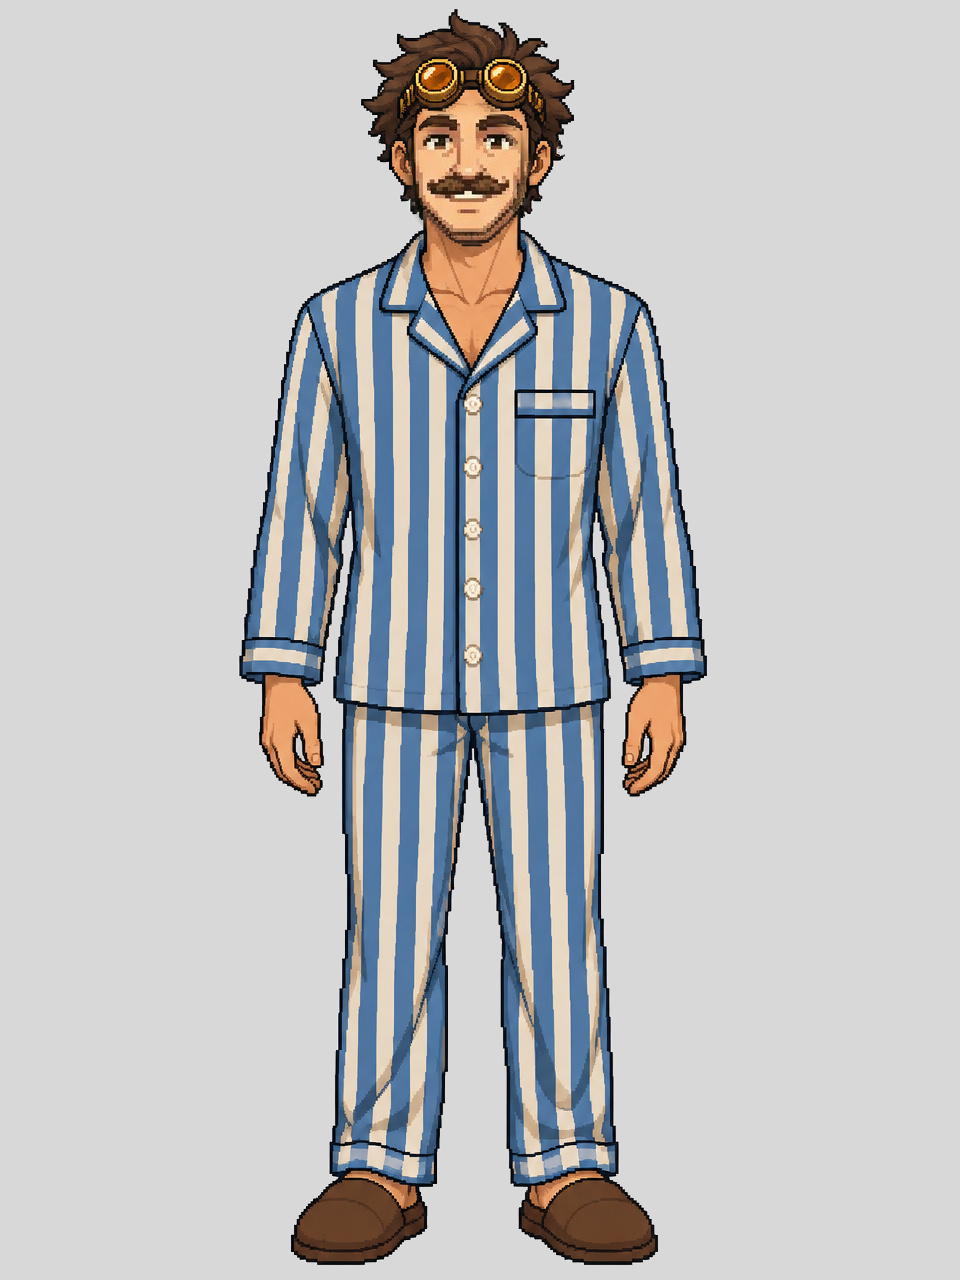
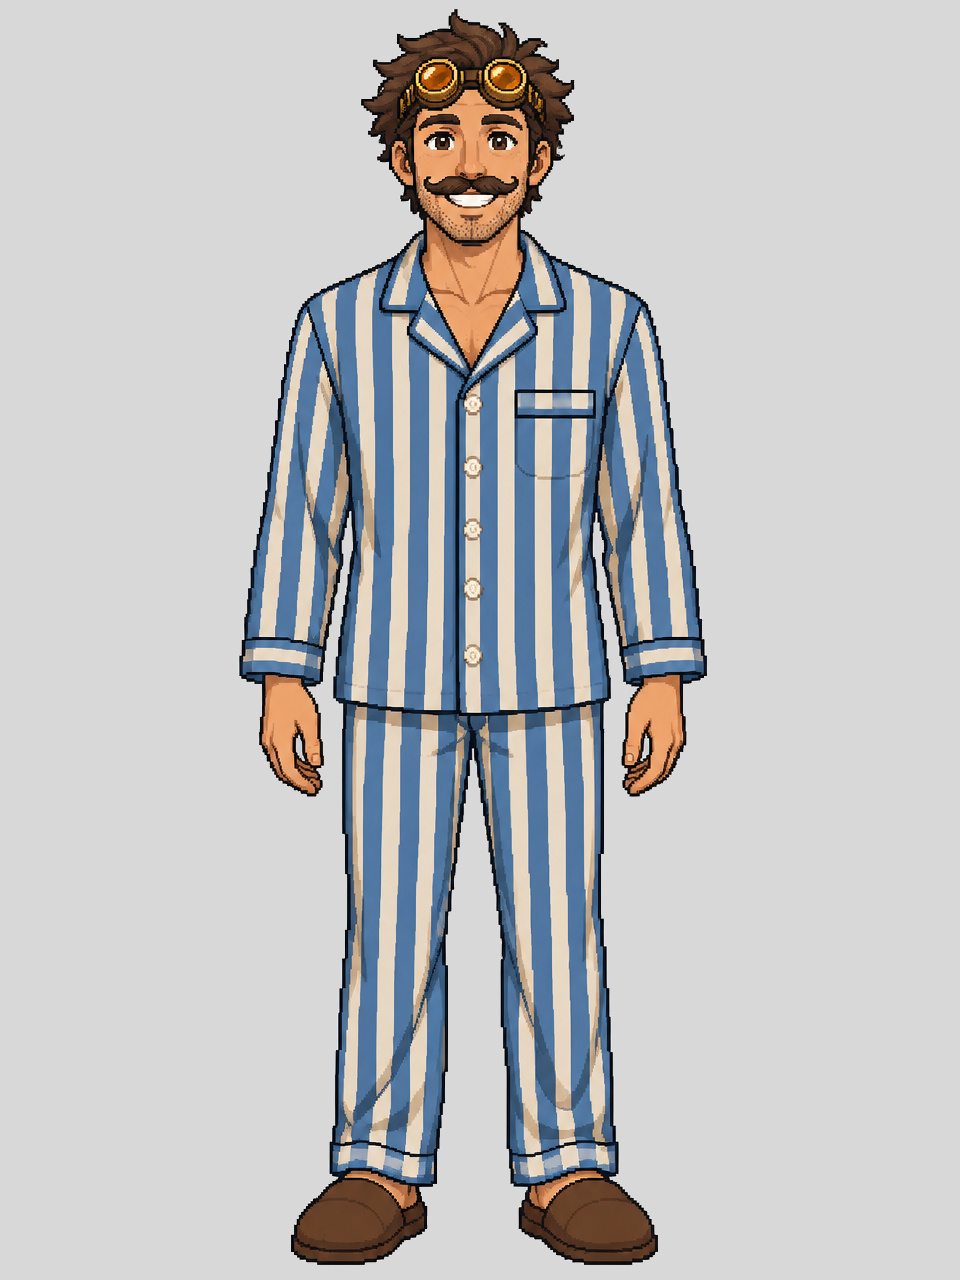
Revert the face transplant on sleep and swim sprites: back to the whole generated characters from d3aee95

Changed region(s): [[0.4062, 0.0625, 0.5625, 0.1875]]

diff --git a/assets/npcs/faces/outfits.py b/assets/npcs/faces/outfits.py
@@ -5,13 +5,7 @@ with a detailed description of the character's face, hair, skin, eyes and build 
 the same front-view standing pose on plain light grey; Veyra's swim sprite is the owner's approved concept. Faces drift a little from the day
 sprites (accepted by the owner); the day sprites and the faces strips are not touched.
 
-Then the FACE (eyes, brows, nose, mouth, cheeks; Gruk's tusks; Veyra's glasses and fringe) of the day sprite is transplanted onto each
-generated face: a soft ellipse around the day face, scaled, rotated and moved so the day sprite's eye centres land on the generated sprite's
-eye centres (both hand-set below, EYES), the day face's skin tone shifted to the generated skin round the edge, and the edge feathered.
-Hair, hats, ears and the head outline stay the generated sprite's, so the head stays joined to the body. Veyra's generated sleep sprite has
-her fringe on the other side, so it is mirrored first (FLIP).
-
-The script also flattens each image onto the plain grey of the other sprites (any transparency onto grey 216; a near-grey background is
+This script only flattens each image onto the plain grey of the other sprites (any transparency onto grey 216; a near-grey background is
 evened out to exactly that grey by a flood fill from the border, like src/render/npcs/art.ts cutOut) and saves assets/npcs/<id>_<outfit>.jpg.
 
   python assets/npcs/faces/outfits.py [id ...]
@@ -56,140 +50,13 @@ def flatten(path):
     return a.astype(np.uint8)
 
 
-# Eye centres (x, y): left eye then right eye as seen in the picture. Day sprites in assets/npcs/<id>.jpg pixels, outfits in the 960x1280
-# generated pixels (after FLIP). Veyra's left eye is under her fringe: the centre of that glasses lens.
-EYES = {
-    'mara': {'day': ((418, 223), (477, 223)), 'sleep': ((437, 235), (507, 235)), 'swim': ((437, 240), (507, 240))},
-    'rosa': {'day': ((412, 232), (475, 232)), 'sleep': ((432, 187), (505, 187)), 'swim': ((427, 187), (500, 187))},
-    'gruk': {'day': ((433, 168), (483, 168)), 'sleep': ((450, 147), (505, 147)), 'swim': ((450, 152), (505, 152))},
-    'orrin': {'day': ((417, 195), (477, 195)), 'sleep': ((437, 142), (497, 142)), 'swim': ((397, 217), (462, 217))},
-    'bram': {'day': ((413, 202), (473, 202)), 'sleep': ((415, 212), (510, 212)), 'swim': ((445, 202), (515, 202))},
-    'veyra': {'day': ((448, 130), (507, 128)), 'sleep': ((447, 112), (507, 112)), 'swim': ((440, 145), (500, 142))},
-}
-FLIP = {('veyra', 'sleep')}
-# The face ellipse on the day sprite, in eye distances d from the eyes' midpoint: centre drop, half width, half height, feather.
-FACE = {
-    'mara': (0.3, 0.95, 0.75, 0.16), 'rosa': (0.3, 0.85, 0.78, 0.16), 'gruk': (0.55, 1.05, 1.25, 0.16),
-    'orrin': (0.5, 0.95, 1.1, 0.16), 'bram': (0.45, 1.0, 1.0, 0.16), 'veyra': (0.3, 1.05, 0.72, 0.14),
-}
-
-
-# Regions of a generated sprite to paint over from their surroundings before the face goes on (x0, y0, x1, y1): the sunglasses resting on
-# Veyra's head in the swim concept (she keeps the reading glasses of her day face).
-CLEAN = {}  # e.g. {('veyra', 'swim'): (400, 40, 545, 108)} would paint the sunglasses off her head (not used: she wears them there)
-# Faces transplanted without the day sprite's glasses (the gold rims are painted out of the day face first): Veyra's swim sprite wears her
-# glasses pushed up on her head instead, as in the concept.
-NO_GLASSES = {('veyra', 'swim')}
-
-
-def clean(cid, outfit, img):
-    """Removes a prop lying on the hair: inside the box, every pixel of the head that is not hair is repainted with the hair texture from
-    further down the same columns (so the strands and shading carry on), then the head's dark outline is drawn back along the silhouette."""
-    import cv2
-
-    box = CLEAN.get((cid, outfit))
-    if not box:
-        return img
-    x0, y0, x1, y1 = box
-    out = img.copy()
-    a = img.astype(int)
-    hair = (a.max(axis=2) < 110) & (a[..., 2] >= a[..., 0])
-    bg = np.abs(a - np.array(GREY)).sum(axis=2) < 30
-    fg = ~bg
-    # the prop is a pair of round glasses: find the gold rims, fit a disc to each lens, and take the discs and the bridge
-    gold = (a[..., 0] > 160) & (a[..., 1] > 110) & (a[..., 2] < 110) & (a[..., 0] - a[..., 2] > 80)
-    gy, gx = np.where(gold[y0:y1, x0:x1])
-    gy, gx = gy + y0, gx + x0
-    mid = (gx.min() + gx.max()) / 2
-    prop = np.zeros(hair.shape, np.uint8)
-    centres = []
-    for side in (gx < mid, gx >= mid):
-        cx, cy = gx[side].mean(), gy[side].mean()
-        r = np.hypot(gx[side] - cx, gy[side] - cy).max()
-        cv2.circle(prop, (int(round(cx)), int(round(cy))), int(r) + 6, 1, -1)
-        centres.append((int(round(cx)), int(round(cy))))
-    cv2.line(prop, centres[0], centres[1], 1, 8)
-    shiny = np.zeros(hair.shape, np.uint8)  # any gold rim or white glint left in the box goes too
-    shiny[y0:y1, x0:x1] = (gold | (a.min(axis=2) > 150))[y0:y1, x0:x1]
-    prop = (prop.astype(bool) | cv2.dilate(shiny, np.ones((7, 7), np.uint8)).astype(bool)) & fg
-    dy = y1 - y0
-    ys, xs = np.where(prop)
-    w = img.shape[1]
-    # where to borrow hair from: straight below (a box height or two down), else sideways along the same row, clear of the glasses
-    offsets = [(dy, 0), (2 * dy, 0), (0, -60), (0, 60), (0, -90), (0, 90)] + [(oy, ox) for oy in (10, 20, 30, 45) for ox in (-35, 35, -50, 50, -70, 70)]
-    left = np.zeros(hair.shape, np.uint8)
-    for y, x in zip(ys, xs):
-        for oy, ox in offsets:
-            sy, sx = y + oy, x + ox
-            if 0 <= sy < img.shape[0] and 0 <= sx < w and hair[sy, sx] and not prop[sy, sx]:
-                out[y, x] = img[sy, sx]
-                break
-        else:
-            left[y, x] = 1
-    if left.any():  # whatever found no hair to borrow is filled in from its neighbours
-        out = cv2.inpaint(out, left, 3, cv2.INPAINT_TELEA)
-    # the outline: head pixels next to the background become the darkest hair colour
-    dark = np.percentile(a[hair][:, :3], 3, axis=0).astype(np.uint8)
-    outside = (a == np.array(GREY)).all(axis=2)  # the background the flatten step set (connected to the border)
-    edge = ~outside & cv2.dilate(outside.astype(np.uint8), np.ones((3, 3), np.uint8)).astype(bool)
-    sel = np.zeros(hair.shape, bool)
-    sel[y0:y1, x0:x1] = edge[y0:y1, x0:x1]
-    out[sel] = dark
-    return out
-
-
-def transplant(cid, outfit, gen):
-    """The day sprite's face, eye-aligned, tone-matched and feathered, over the generated face."""
-    import cv2
-
-    day = np.array(Image.open(os.path.join(ROOT, f'{cid}.jpg')).convert('RGB')).astype(np.float32)
-    (dl, dr), (gl, gr) = EYES[cid]['day'], EYES[cid][outfit]
-    if (cid, outfit) in NO_GLASSES:
-        rim = ((day[..., 0] - day[..., 2] > 25) & (day[..., 1] > day[..., 2] + 5) & (day[..., 0] > 100)).astype(np.uint8)
-        rim[:, :400] = 0
-        rim[:, 570:] = 0
-        rim[:90] = 0
-        rim[175:] = 0
-        rim = cv2.dilate(rim, np.ones((7, 7), np.uint8))
-        day = cv2.inpaint(day.astype(np.uint8), rim, 4, cv2.INPAINT_TELEA).astype(np.float32)
-    dl, dr, gl, gr = (np.array(p, np.float32) for p in (dl, dr, gl, gr))
-    d_day = np.linalg.norm(dr - dl)
-    k = np.linalg.norm(gr - gl) / d_day
-    ang = np.arctan2(*(gr - gl)[::-1]) - np.arctan2(*(dr - dl)[::-1])
-    c, s_ = np.cos(ang) * k, np.sin(ang) * k
-    mid_d, mid_g = (dl + dr) / 2, (gl + gr) / 2
-    M = np.array([[c, -s_, 0], [s_, c, 0]], np.float32)
-    M[:, 2] = mid_g - M[:, :2] @ mid_d
-    h, w, _ = gen.shape
-    warped = cv2.warpAffine(day, M, (w, h), flags=cv2.INTER_LINEAR, borderMode=cv2.BORDER_REPLICATE)
-    drop, ax, ay, fe = FACE[cid]
-    mask = np.zeros(day.shape[:2], np.float32)
-    cv2.ellipse(mask, (int(mid_d[0]), int(mid_d[1] + drop * d_day)), (int(ax * d_day), int(ay * d_day)), 0, 0, 360, 1.0, -1)
-    mask = cv2.warpAffine(mask, M, (w, h), flags=cv2.INTER_LINEAR)
-    sig = fe * d_day * k
-    soft = cv2.GaussianBlur(mask, (0, 0), sig)
-    soft = np.clip((soft - 0.15) / 0.7, 0, 1)
-    # skin tone: match the day face to the generated face in the ring where the two meet
-    ring = (soft > 0.05) & (soft < 0.6)
-    g = gen.astype(np.float32)
-    delta = np.median(g[ring], axis=0) - np.median(warped[ring], axis=0)
-    edge = np.clip(1 - soft, 0, 1)[..., None] * 0.5 + 0.5  # the whole face shifts half way, the edge all the way
-    warped = np.clip(warped + delta * edge, 0, 255)
-    out = g * (1 - soft[..., None]) + warped * soft[..., None]
-    return out.round().astype(np.uint8)
-
-
 def main(ids):
     for cid in ids:
         for outfit in ('sleep', 'swim'):
             src = os.path.join(SRC, f'{cid}_{outfit}.png')
             if not os.path.exists(src):
                 continue
-            flat = flatten(src)
-            if (cid, outfit) in FLIP:
-                flat = flat[:, ::-1].copy()
-            flat = transplant(cid, outfit, clean(cid, outfit, flat))
-            Image.fromarray(flat).save(os.path.join(ROOT, f'{cid}_{outfit}.jpg'), quality=95, subsampling=0)
+            Image.fromarray(flatten(src)).save(os.path.join(ROOT, f'{cid}_{outfit}.jpg'), quality=95, subsampling=0)
             print(cid, outfit, 'saved')
 
 
